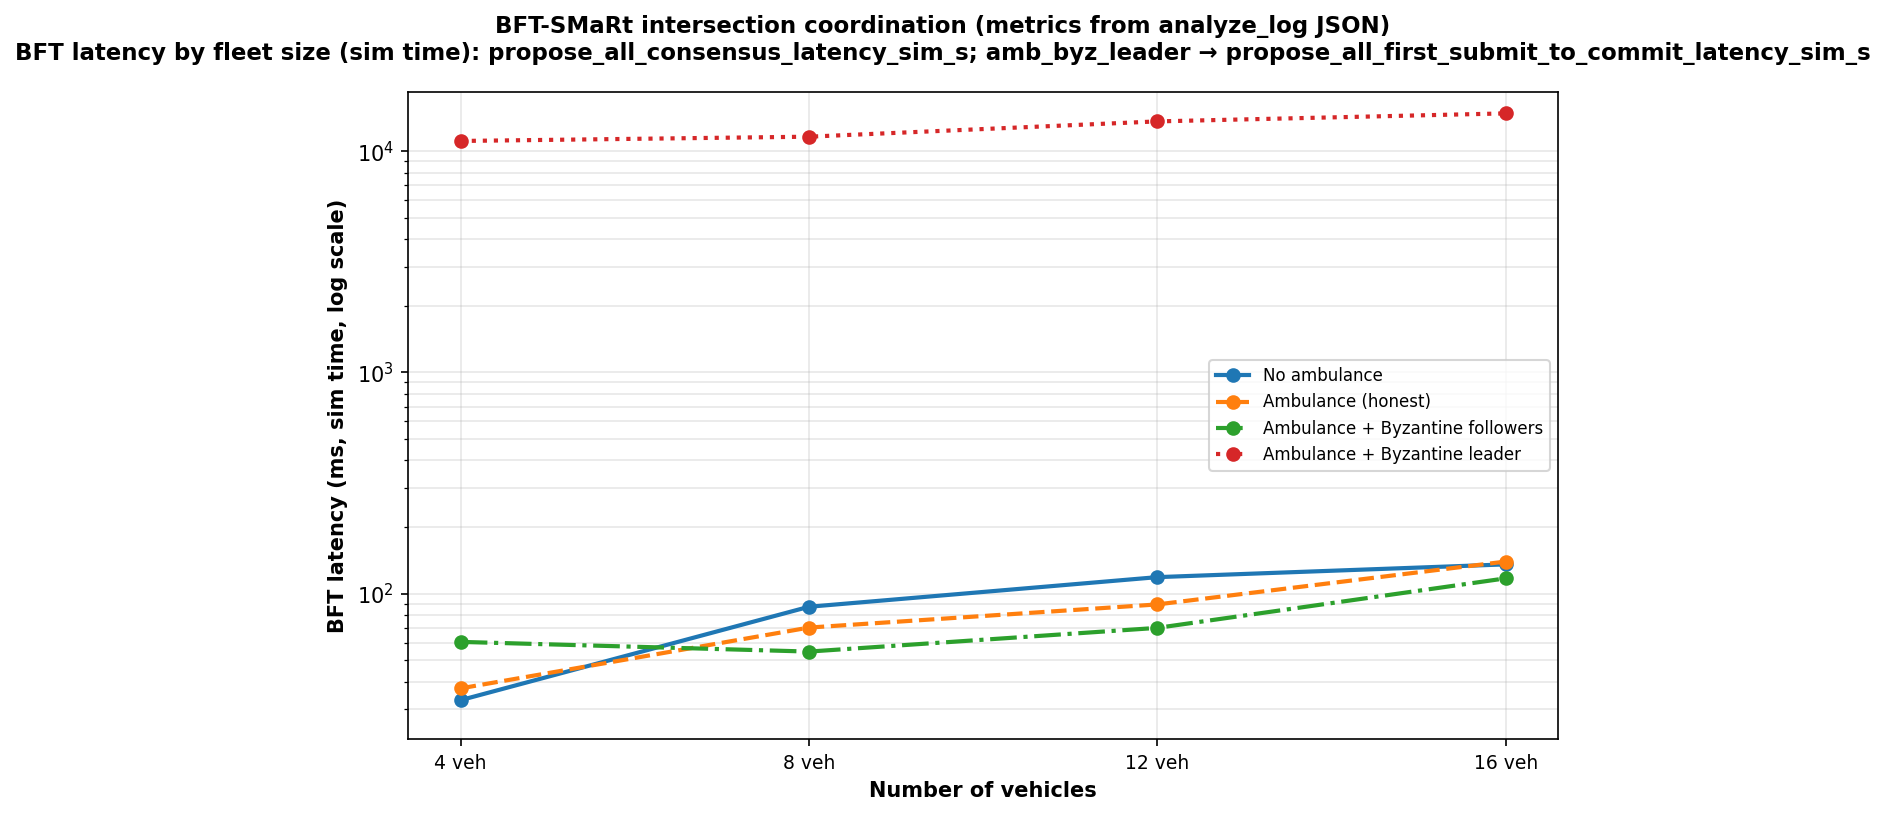
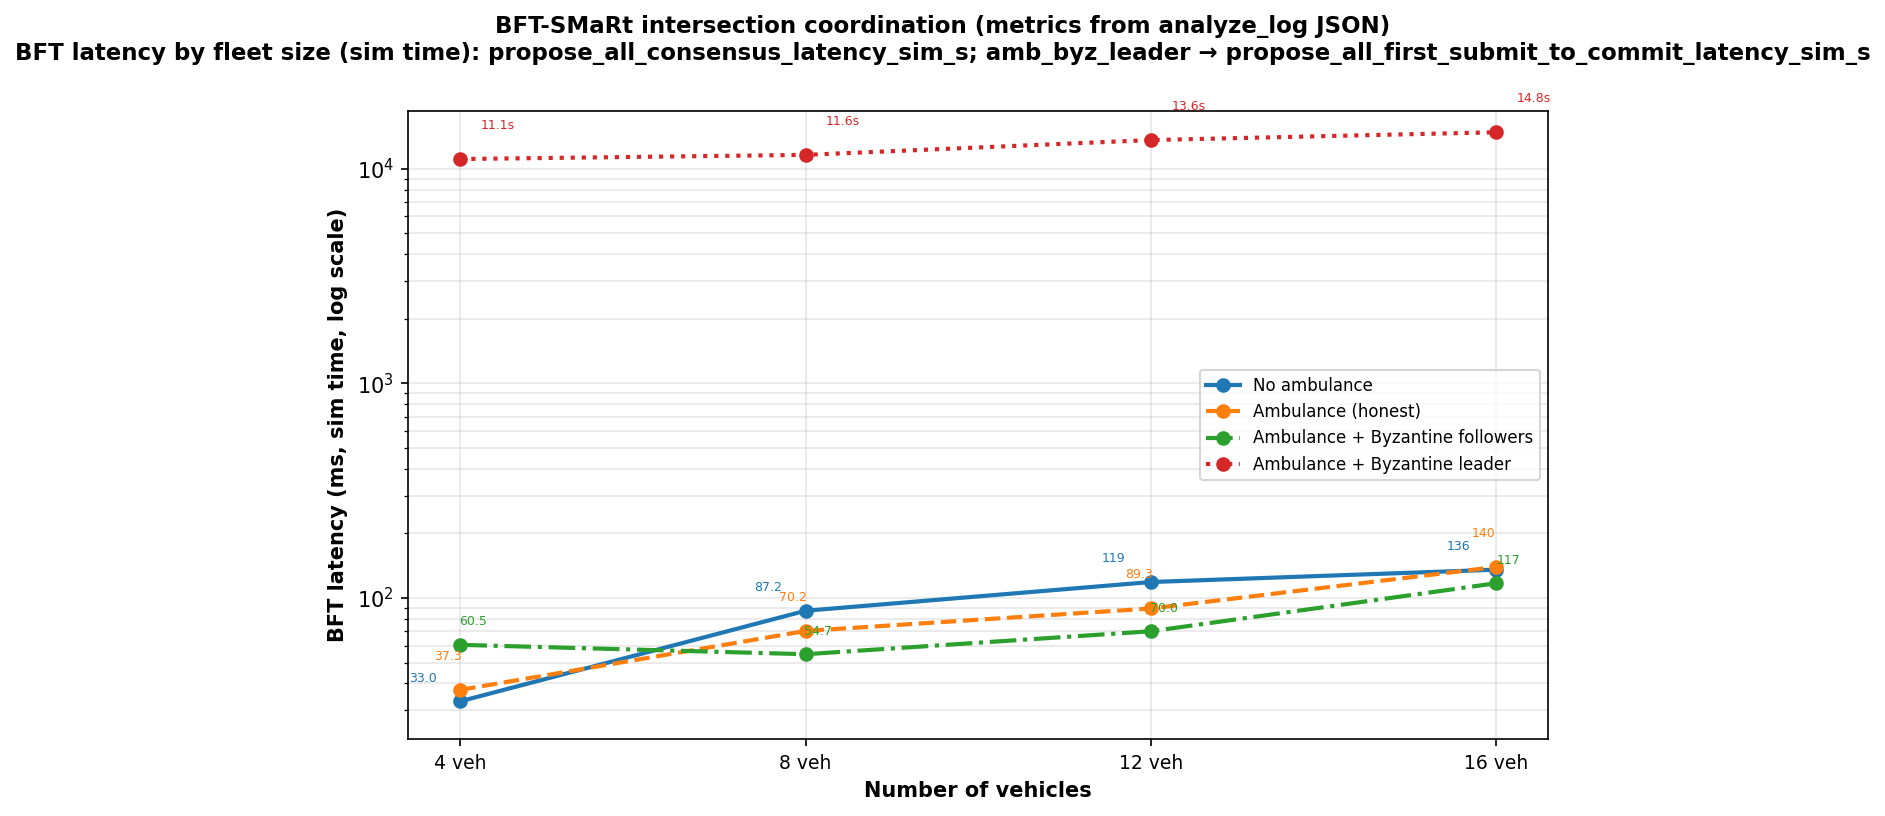
time to merge our plots

diff --git a/benchmarks/plot_wait_time_cdf.py b/benchmarks/plot_wait_time_cdf.py
@@ -364,6 +364,19 @@ def _overall_stat_mean(overall: dict, key: str) -> float | None:
     return None
 
 
+def _format_bft_latency_ms(y_ms: float) -> str:
+    """Compact label for BFT latency points (ms, sim time)."""
+    if y_ms >= 10_000:
+        return f"{y_ms / 1000:.1f}s"
+    if y_ms >= 1000:
+        return f"{y_ms / 1000:.2f}s"
+    if y_ms >= 100:
+        return f"{y_ms:.0f}"
+    if y_ms >= 10:
+        return f"{y_ms:.1f}"
+    return f"{y_ms:.2f}"
+
+
 def _files_by_vc_includes_path_marker(
     files_by_vc: dict[int, list[str]], marker: str
 ) -> bool:
@@ -1134,6 +1147,7 @@ def plot_bars(
     x_cl = np.array(GRID_VEHICLE_COUNTS, dtype=float)
     has_cl = False
     positive_y_vals_cl: list[float] = []
+    cl_plotted: list[tuple[int, str, list[float]]] = []  # series idx, label, y (ms)
     for i, sk in enumerate(series_keys):
         y_vals_cl: list[float] = []
         cl_mk = consensus_line_metric_by_label.get(sk, "consensus_latency_sim_s")
@@ -1146,6 +1160,7 @@ def plot_bars(
                 positive_y_vals_cl.append(y_ms)
         if all(v != v for v in y_vals_cl):  # all NaN
             continue
+        leg = short_cdf_legend_label(sk)
         ax_cl.plot(
             x_cl,
             y_vals_cl,
@@ -1154,8 +1169,9 @@ def plot_bars(
             linewidth=2,
             marker="o",
             markersize=6,
-            label=short_cdf_legend_label(sk),
+            label=leg,
         )
+        cl_plotted.append((i, leg, y_vals_cl))
         has_cl = True
     if has_cl:
         ax_cl.set_xlabel("Number of vehicles", fontsize=10, fontweight="bold")
@@ -1178,6 +1194,29 @@ def plot_bars(
                 ax_cl.set_ylim(bottom=0)
         else:
             ax_cl.set_ylim(bottom=0)
+        n_cl_series = len(cl_plotted)
+        print("BFT latency (ms, sim time):")
+        for i, leg, y_vals_cl in cl_plotted:
+            color = DEFAULT_COLORS[i % len(DEFAULT_COLORS)]
+            parts: list[str] = []
+            for n, yv in zip(GRID_VEHICLE_COUNTS, y_vals_cl):
+                if yv == yv and yv > 0:
+                    parts.append(f"n={n}: {_format_bft_latency_ms(yv)}")
+                    x_off = (i - (n_cl_series - 1) / 2.0) * 12.0
+                    y_off = 8.0 + (i % 2) * 5.0
+                    ax_cl.annotate(
+                        _format_bft_latency_ms(yv),
+                        (float(n), yv),
+                        textcoords="offset points",
+                        xytext=(x_off, y_off),
+                        ha="center",
+                        va="bottom",
+                        fontsize=6,
+                        color=color,
+                        clip_on=False,
+                    )
+            if parts:
+                print(f"  {leg}: {', '.join(parts)}")
         ax_cl.legend(fontsize=8, loc="best")
         fig_cl.tight_layout()
     else:
